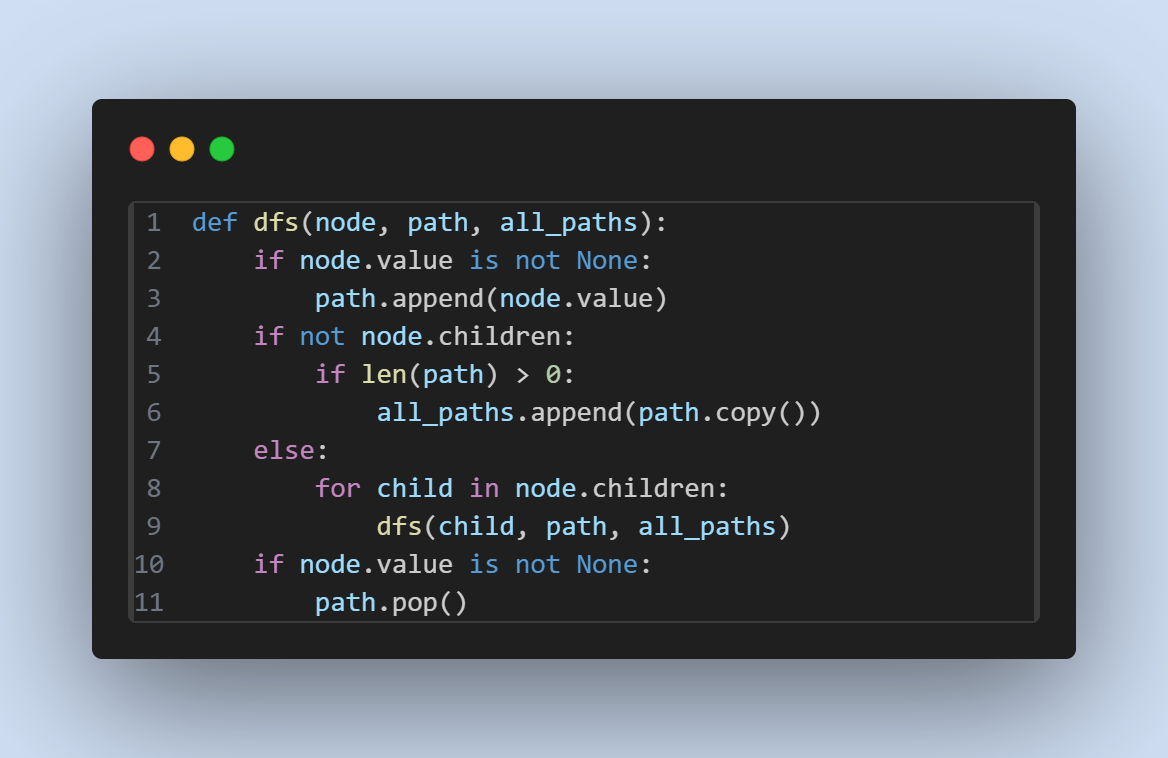
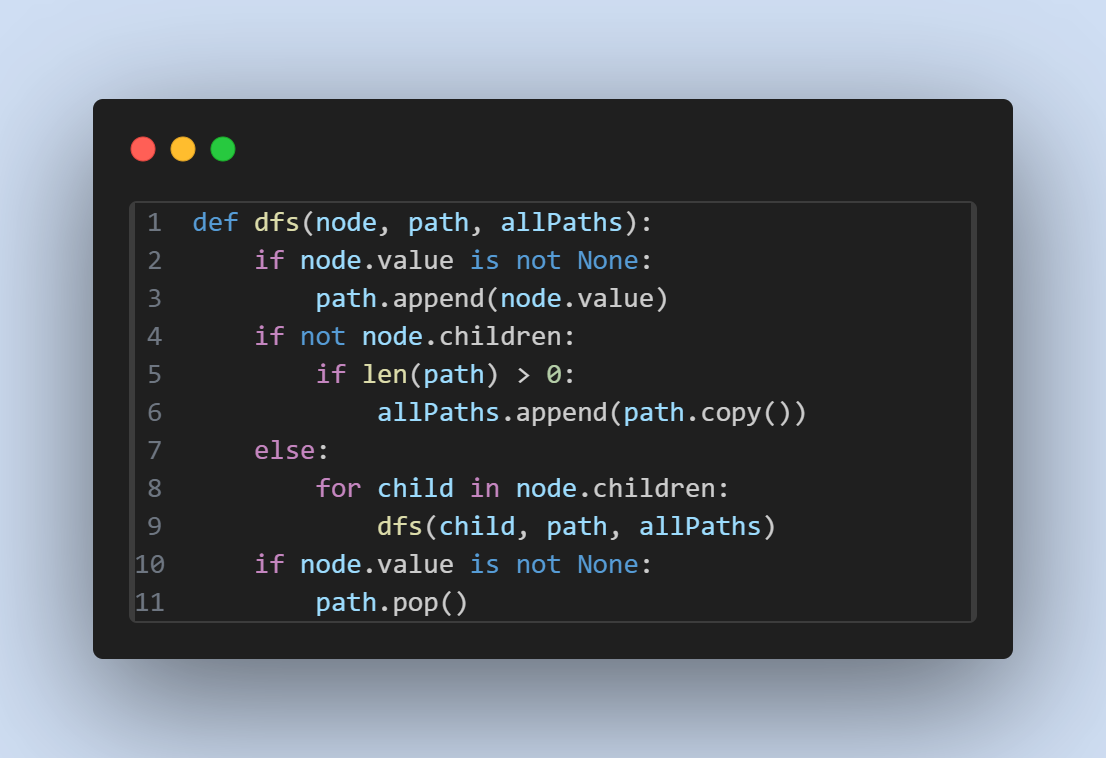
test

diff --git a/LMIS.py b/LMIS.py
@@ -18,15 +18,15 @@ def buildSubtree(arr, index, last_value, parent):
             parent.children.append(child)
             buildSubtree(arr, i + 1, arr[i], child)
 
-def dfs(node, path, all_paths):
+def dfs(node, path, allPaths):
     if node.value is not None:
         path.append(node.value)
     if not node.children:
         if len(path) > 0:
-            all_paths.append(path.copy())
+            allPaths.append(path.copy())
     else:
         for child in node.children:
-            dfs(child, path, all_paths)
+            dfs(child, path, allPaths)
     if node.value is not None:
         path.pop()
 
